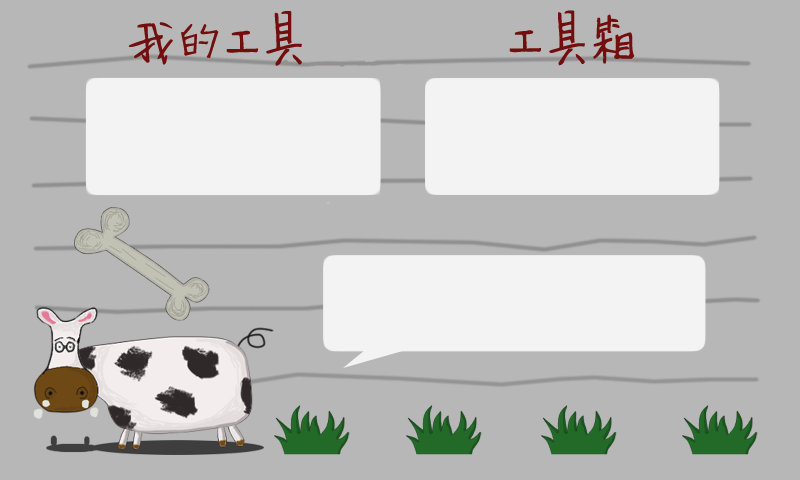
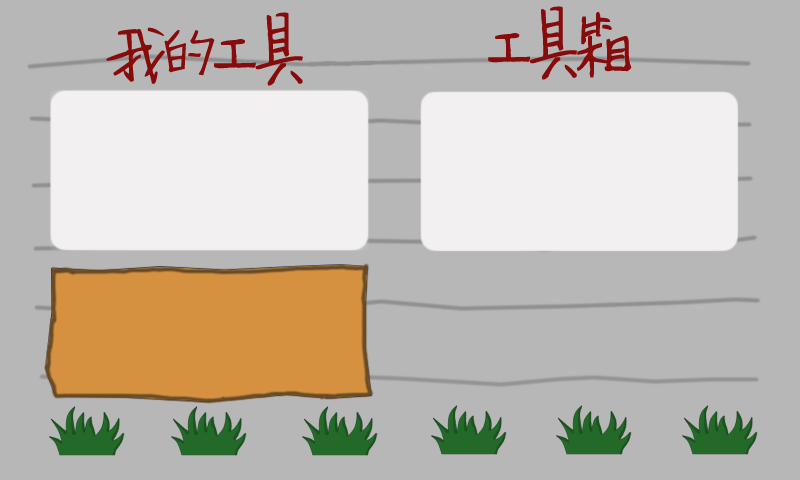
ToolObjects UI update

diff --git a/Classes/Actor/ToolObjects.js b/Classes/Actor/ToolObjects.js
@@ -3,12 +3,12 @@ var ToolObject = cc.Layer.extend({
     value: null,
     buyAction: null,
     dstMap : [
-        {x: 130, y: 310},
-        {x: 230, y: 310},
-        {x: 330, y: 310},
-        {x: 130, y: 370},
-        {x: 230, y: 370},
-        {x: 330, y: 370}
+        {x: 130, y: 290},
+        {x: 230, y: 290},
+        {x: 330, y: 290},
+        {x: 130, y: 350},
+        {x: 230, y: 350},
+        {x: 330, y: 350}
     ],
     ctor:function (object) {
         var type = getObjectName(object.type);
@@ -103,10 +103,7 @@ var Milk1 = cc.Layer.extend({
     destroy: function () {
         //Game.toolContainer["Milk"] = null;
         //this.runAction(this.useAction);
-        for (var i = 0; i < Game.toolContainer.length; i++) {
-            if (Game.toolContainer[i].type == this.type)
-                Game.toolContainer[i] = null;
-        }
+        Game.popToolObject(this.type);
         //this.getParent().reOrderToolContainer();
         //this.getParent().removeChild(this);
     }
@@ -144,10 +141,7 @@ var Milk2 = cc.Layer.extend({
     destroy: function () {
         //Game.toolContainer["Milk"] = null;
         //this.runAction(this.useAction);
-        for (var i = 0; i < Game.toolContainer.length; i++) {
-            if (Game.toolContainer[i].type == this.type)
-                Game.toolContainer[i] = null;
-        }
+        Game.popToolObject(this.type);
         //this.getParent().reOrderToolContainer();
         //this.getParent().removeChild(this);
     }
@@ -184,10 +178,7 @@ var Longer = cc.Layer.extend({
     },
     destroy: function () {
         //this.runAction(this.useAction);
-        for (var i = 0; i < Game.toolContainer.length; i++) {
-            if (Game.toolContainer[i].type == this.type)
-                Game.toolContainer[i] = null;
-        }
+        Game.popToolObject(this.type);
         //this.getParent().reOrderToolContainer();
         //this.getParent().removeChild(this);
     }
@@ -228,10 +219,7 @@ var Bombshell = cc.Layer.extend({
     },   
     destroy: function () {
         //this.runAction(this.useAction);
-        for (var i = 0; i < Game.toolContainer.length; i++) {
-            if (Game.toolContainer[i].type == this.type)
-                Game.toolContainer[i] = null;
-        }
+        Game.popToolObject(this.type);
         //this.getParent().reOrderToolContainer();
         //this.getParent().removeChild(this);
     }
@@ -278,10 +266,7 @@ var BoneToGold = cc.Layer.extend({
     },   
     destroy: function () {
         //this.runAction(this.useAction);
-        for (var i = 0; i < Game.toolContainer.length; i++) {
-            if (Game.toolContainer[i].type == this.type)
-                Game.toolContainer[i] = null;
-        }
+        Game.popToolObject(this.type);
         //this.getParent().reOrderToolContainer();
         //this.getParent().removeChild(this);
     }
@@ -321,10 +306,7 @@ var RockToRich = cc.Layer.extend({
     },   
     destroy: function () {
         //this.runAction(this.useAction);
-        for (var i = 0; i < Game.toolContainer.length; i++) {
-            if (Game.toolContainer[i].type == this.type)
-                Game.toolContainer[i] = null;
-        }
+        Game.popToolObject(this.type);
         //this.getParent().reOrderToolContainer();
         //this.getParent().removeChild(this);
     }

diff --git a/Classes/Framework/StoreLayer.js b/Classes/Framework/StoreLayer.js
@@ -22,7 +22,7 @@ var StoreLayer = cc.Layer.extend({
                 var accept = cc.MenuItemSprite.create(acceptNormal, acceptSelected, acceptDisabled, this, this.onAccept);
                 var menu = cc.Menu.create(accept);
                 this.addChild(menu, 1, 2);
-                menu.setPosition(cc.ccp(154, 200));
+                menu.setPosition(cc.ccp(550, 150));
                 
                 this.initShelfMap();
                 this.createTools();
@@ -39,12 +39,12 @@ var StoreLayer = cc.Layer.extend({
     
     initShelfMap: function () {
         this.shelfMap = [
-            {x: 470, y: 310},
-            {x: 570, y: 310},
-            {x: 670, y: 310},
-            {x: 470, y: 370},
-            {x: 570, y: 370},
-            {x: 670, y: 370}
+            {x: 470, y: 290},
+            {x: 570, y: 290},
+            {x: 670, y: 290},
+            {x: 470, y: 350},
+            {x: 570, y: 350},
+            {x: 670, y: 350}
         ];
     },
     

diff --git a/Classes/Config/ObjectType.js b/Classes/Config/ObjectType.js
@@ -66,32 +66,32 @@ var ToolType = {
     Milk1: {
         create: Milk1,
         value: 2000,
-        image: s_milk
+        image: s_milk1
     }, // Make the hook retrieve quicker
     Milk2: {
         create: Milk2,
         value: 500,
-        image: s_milk
+        image: s_milk2
     },
     Longer: {
         create: Longer,
         value: 1000,
-        image: s_hook_long
+        image: s_aim
     }, // Make the hook longer
     Bombshell: {
         create: Bombshell,
         value: 200,
-        image: s_milk
+        image: s_bomb
     }, // Bomb all the rocks
     BoneToGold: {
         create: BoneToGold,
         value: 1500,
-        image: s_milk
+        image: s_bonebook
     }, // Turn Bones into Golds
     RockToRich: {
         create: RockToRich,
         value: 200,
-        image: s_milk
+        image: s_stonebook
     } // Multiplay the value of rocks
 };
 

diff --git a/Resource.js b/Resource.js
@@ -62,6 +62,11 @@ var s_mission_ruler = "Resources/missionruler.png";
 var s_shopbg = "Resources/shopbg.png";
 var s_nextgame = "Resources/nextgame.png";
 var s_nextgamebig = "Resources/nextgamebig.png";
+var s_milk1 = "Resources/milk1.png";
+var s_milk2 = "Resources/milk2.png";
+var s_stonebook = "Resources/stonebook.png";
+var s_bonebook = "Resources/bonebook.png";
+var s_aim = "Resources/aim.png";
 
 //music
 var s_bgMusic = "Resources/Music/bgMusic";
@@ -98,6 +103,12 @@ var g_ressources = [
     {type:"image", src:s_explode1},
     {type:"image", src:s_explode2},
     {type:"image", src:s_explode3},
+    
+    {type:"image", src:s_milk1},
+    {type:"image", src:s_milk2},
+    {type:"image", src:s_bonebook},
+    {type:"image", src:s_stonebook},
+    {type:"image", src:s_aim},
     
     {type:"image", src:s_background},
     {type:"image", src:s_background1},

diff --git a/Classes/Framework/ToolManager.js b/Classes/Framework/ToolManager.js
@@ -26,8 +26,9 @@ var ToolManager = cc.Class.extend({
             var tool = tools[i];
             object.type = global.Tag[tool];
             object.x = map[j].x;
-            object.y = map[j].y; 
+            object.y = map[j].y;
             object = new ToolObject(object);
+            object.setScale(0.5);
             this._layer.addChild(object, global.zOrder.Tool);
             j++;
         }
